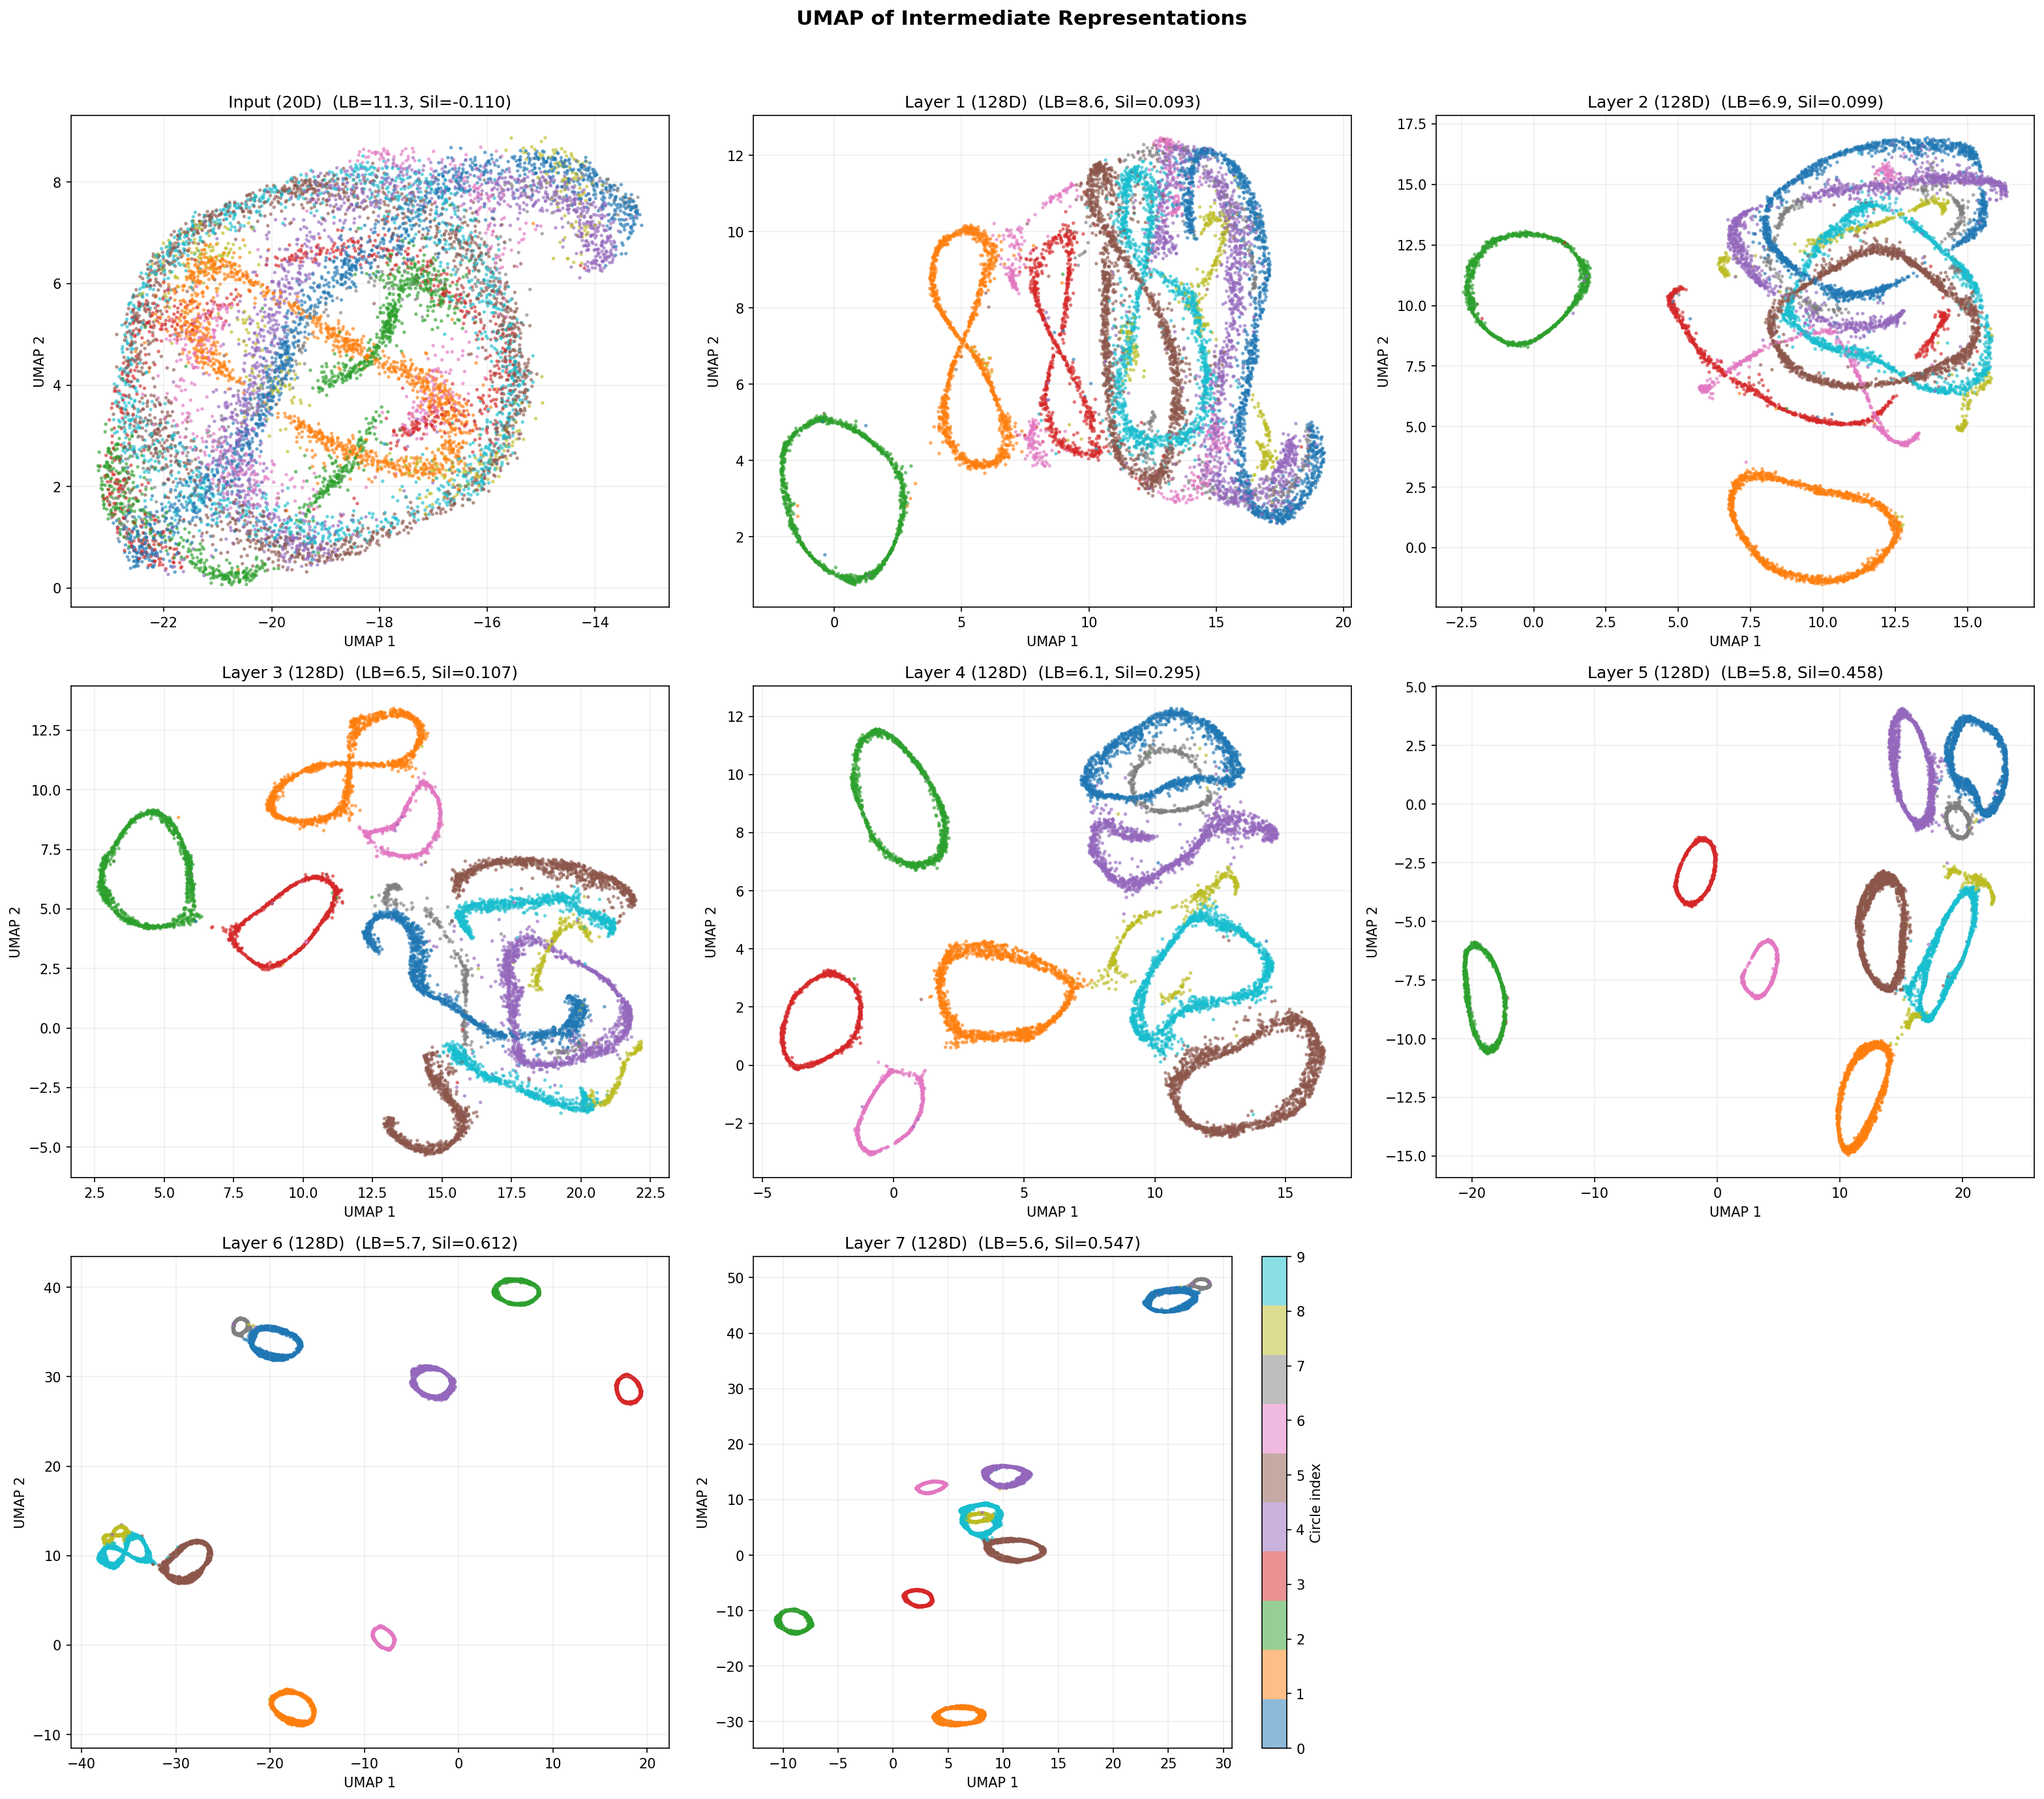
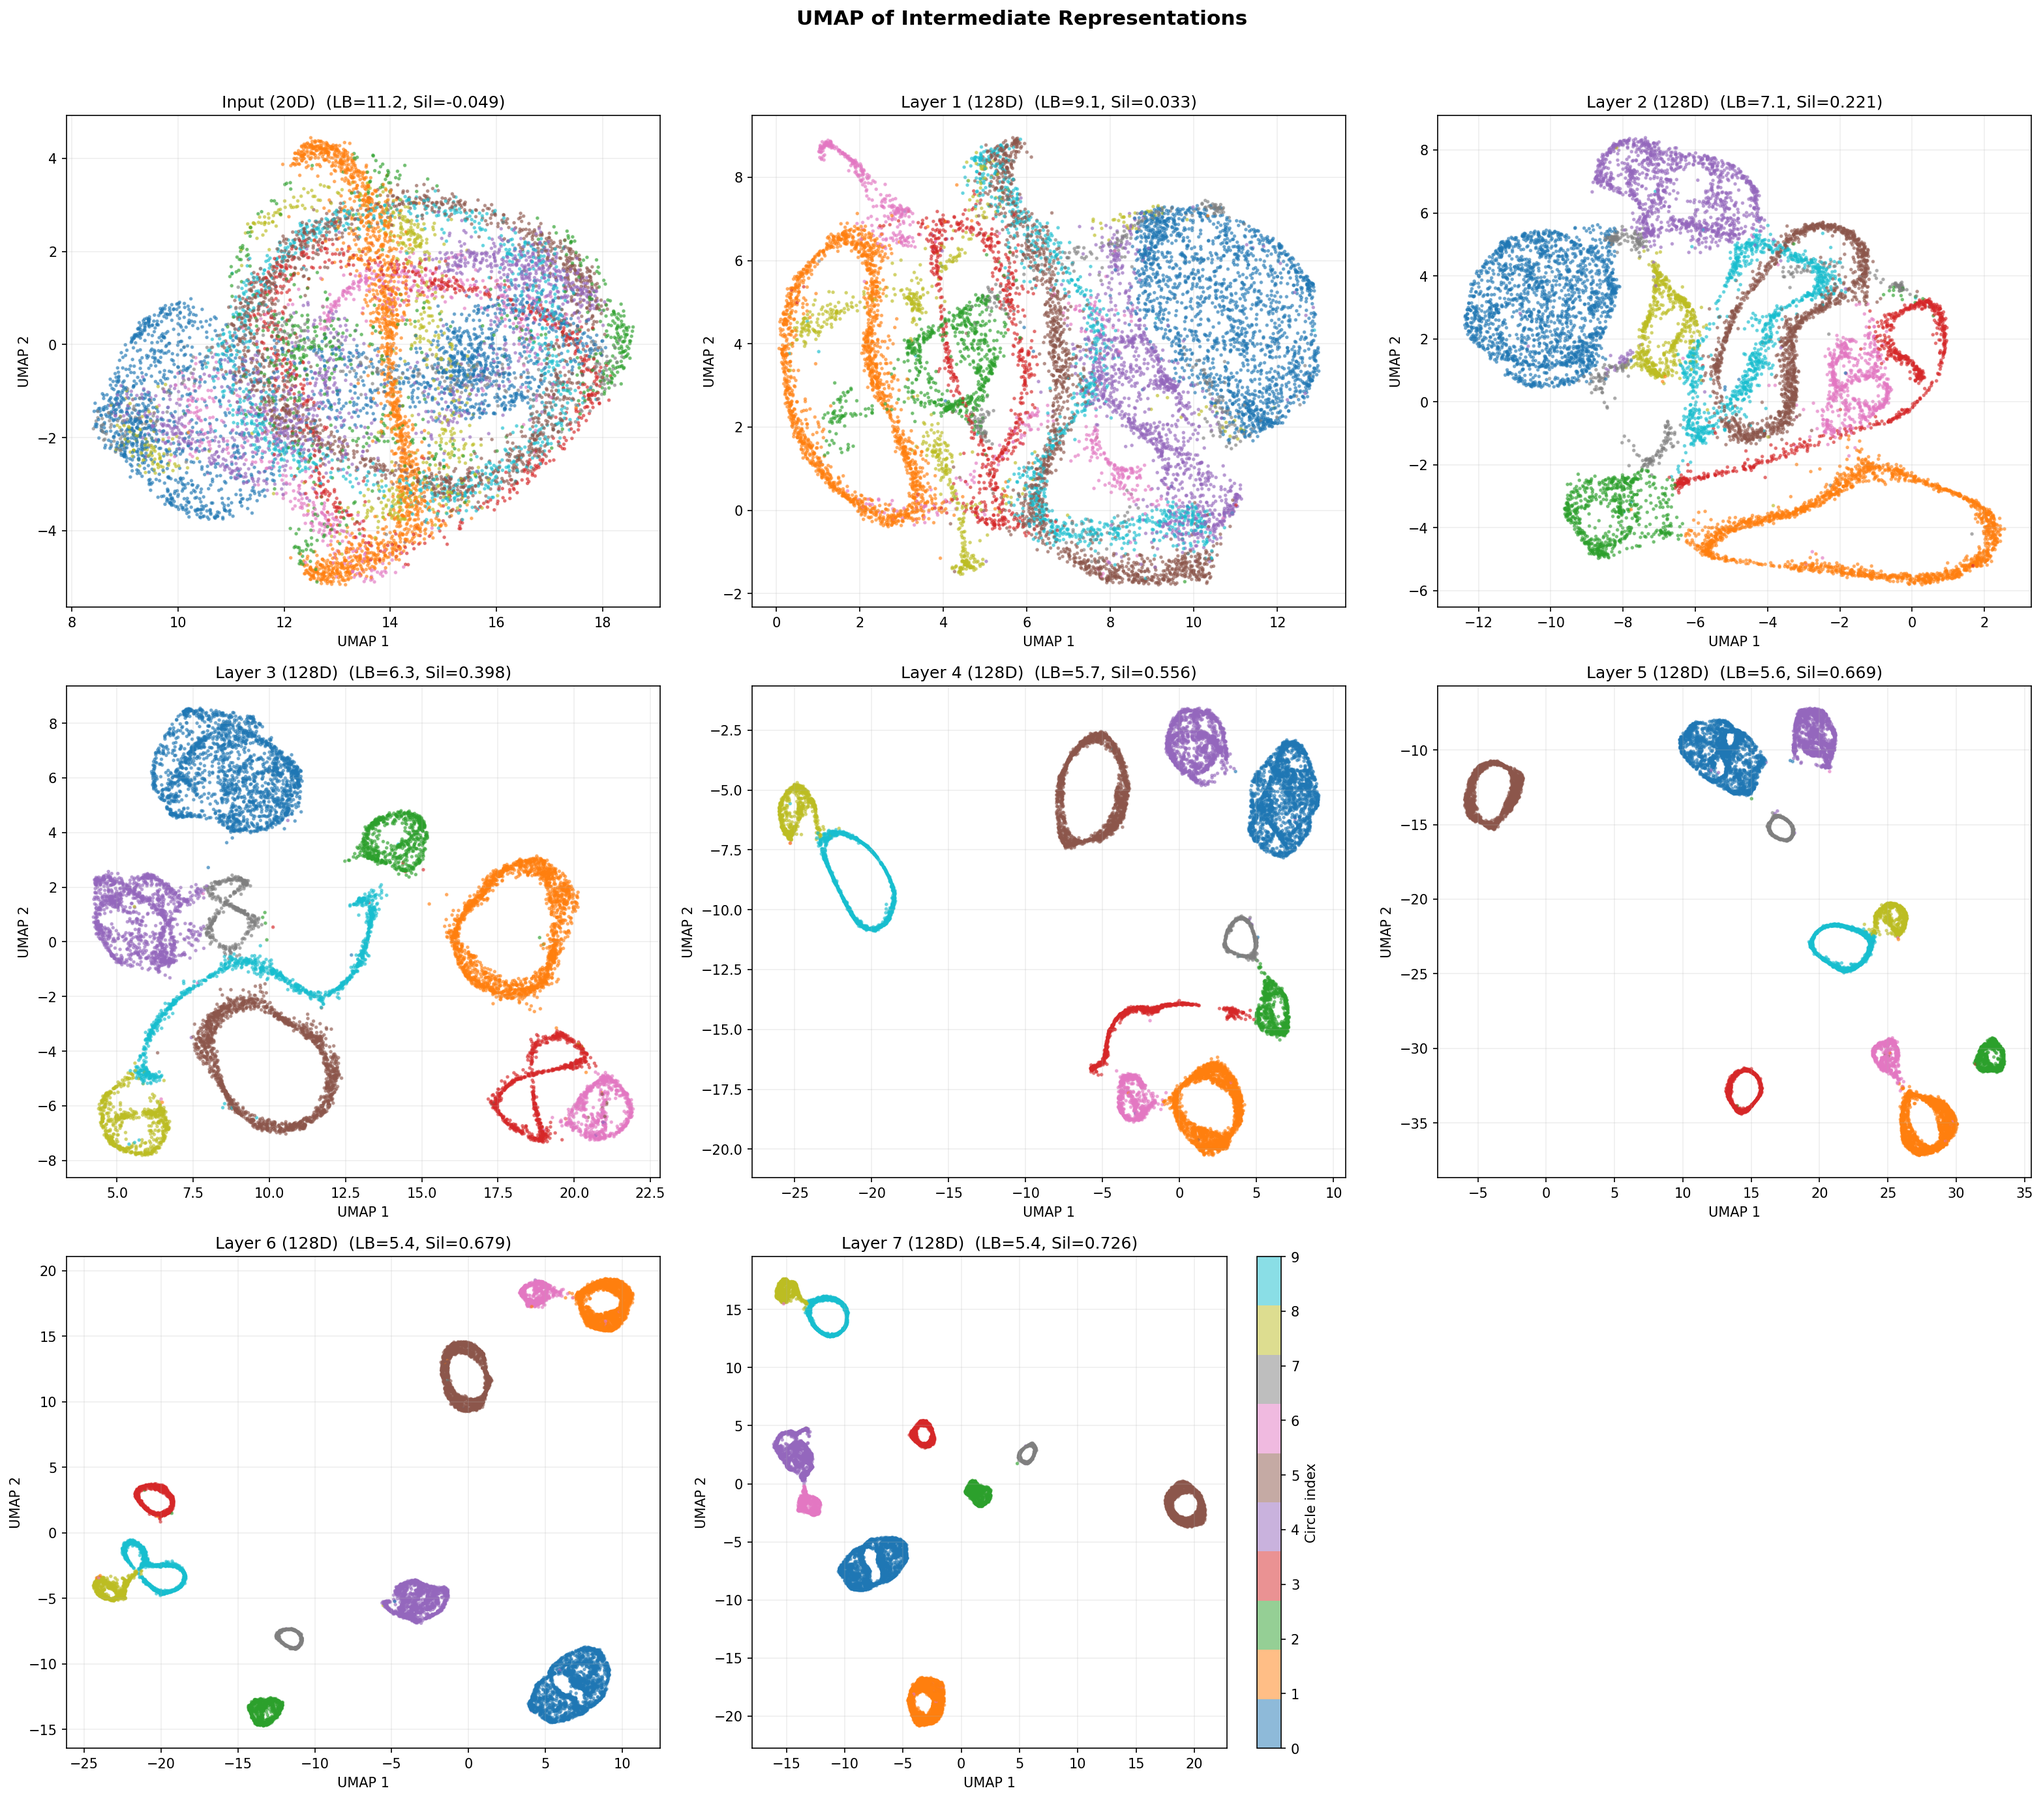
Add plane drift for even circles, update JEPA results to 3000 epochs
- Even circles gradually tilt their 2D plane during each syllable,
  resetting on transition (--drift flag, --drift-rate controls speed)
- Sample window plots now label drifting circles with 'D' suffix
- Updated JEPA UMAP to 3000-epoch model on drift dataset (Sil=0.73)
- README documents drift feature and updated training recipe

Made-with: Cursor

diff --git a/markov_circles_timeseries.py b/markov_circles_timeseries.py
@@ -207,6 +207,8 @@ def generate_time_series(
     min_period=40,
     max_period=200,
     subspace_dim=None,
+    drift=False,
+    drift_rate=0.5,
     seed=42,
 ):
     """
@@ -249,6 +251,13 @@ def generate_time_series(
         Dimension of the subspace from which circle planes are drawn.
         Controls geometric overlap (see ``create_circles`` docstring).
         None or ambient_dim = no overlap; 2 = maximum overlap.
+    drift : bool
+        If True, even-numbered circles (0, 2, 4, ...) gradually tilt
+        their 2D plane during each visit (syllable), resetting to
+        the original orientation on each new visit.
+    drift_rate : float
+        Maximum tilt angle in radians over one syllable.
+        Default 0.5 rad ≈ 29°.
     seed : int
         Random seed for reproducibility.
 
@@ -279,6 +288,31 @@ def generate_time_series(
     # Fixed entry angle for each circle
     entry_angles = rng.uniform(0, 2 * np.pi, n_circles)
 
+    # Drift setup: for even circles, compute a tilt axis orthogonal to the plane
+    drift_axes = {}
+    if drift:
+        for i in range(0, n_circles, 2):
+            v1, v2 = planes[i]
+            d = rng.standard_normal(ambient_dim)
+            d -= d.dot(v1) * v1
+            d -= d.dot(v2) * v2
+            d /= np.linalg.norm(d)
+            drift_axes[i] = d
+
+    def _get_plane(circle_idx, step_in_syllable, syllable_len):
+        """Return the (possibly drifted) plane for a circle at a given step
+        within the current syllable. Drift resets at each new visit."""
+        v1, v2 = planes[circle_idx]
+        if not drift or circle_idx not in drift_axes:
+            return v1, v2
+        alpha = drift_rate * (step_in_syllable / max(1, syllable_len))
+        d = drift_axes[circle_idx]
+        v1_new = np.cos(alpha) * v1 + np.sin(alpha) * d
+        v1_new /= np.linalg.norm(v1_new)
+        v2_new = v2 - v2.dot(v1_new) * v1_new
+        v2_new /= np.linalg.norm(v2_new)
+        return v1_new, v2_new
+
     # Allocate output arrays
     X = np.zeros((n_steps, ambient_dim))
     states = np.zeros(n_steps, dtype=int)
@@ -303,10 +337,11 @@ def generate_time_series(
             states[t] = current_circle
             thetas[t] = angle % (2 * np.pi)
 
+            plane = _get_plane(current_circle, s, dwell)
             pos = point_on_circle(
                 thetas[t],
                 radii[current_circle],
-                planes[current_circle],
+                plane,
                 centers[current_circle],
             )
             X[t] = pos + rng.normal(0, noise_std, ambient_dim)
@@ -387,6 +422,8 @@ DEFAULT_CONFIG = dict(
     min_period=40,
     max_period=200,
     subspace_dim=None,
+    drift=False,
+    drift_rate=0.5,
     seed=42,
 )
 
@@ -561,6 +598,20 @@ def main(run_umap=True):
         ax_top.set_xlim(t0, t1)
         ax_top.set_yticks([])
         ax_top.set_ylabel('State', fontsize=10)
+
+        # Label each syllable segment with circle index and drift marker
+        seg_start = t0
+        for t in range(t0 + 1, t1 + 1):
+            if t == t1 or states[t] != states[t - 1]:
+                seg_mid = (seg_start + t) / 2
+                ci = states[seg_start]
+                is_drift = config.get('drift', False) and ci % 2 == 0
+                label = f'{ci}D' if is_drift else str(ci)
+                ax_top.text(seg_mid, 0.5, label, ha='center', va='center',
+                            fontsize=7, fontweight='bold', color='white',
+                            transform=ax_top.get_xaxis_transform())
+                seg_start = t
+
         ax_top.set_title(f'Sample window  t = {t0} … {t1}  '
                          f'({window} steps)', fontsize=12)
         plt.setp(ax_top.get_xticklabels(), visible=False)
@@ -639,9 +690,18 @@ if __name__ == '__main__':
     parser.add_argument('--n-steps', type=int, default=None,
                         help='Total time steps to generate '
                              '(default: 100000)')
+    parser.add_argument('--drift', action='store_true',
+                        help='Enable gradual plane tilt for even-numbered '
+                             'circles (non-stationary geometry)')
+    parser.add_argument('--drift-rate', type=float, default=0.5,
+                        help='Max tilt angle in radians over the full '
+                             'time series (default: 0.5 ≈ 29°)')
     args = parser.parse_args()
     if args.subspace_dim is not None:
         DEFAULT_CONFIG['subspace_dim'] = args.subspace_dim
     if args.n_steps is not None:
         DEFAULT_CONFIG['n_steps'] = args.n_steps
+    if args.drift:
+        DEFAULT_CONFIG['drift'] = True
+        DEFAULT_CONFIG['drift_rate'] = args.drift_rate
     main(run_umap=not args.no_umap)

diff --git a/README.md b/README.md
@@ -30,17 +30,19 @@ The target encoder is updated via EMA after each optimiser step, with a cosine m
 | mask_ratio | 0.25 |
 | mask_patch_size | 16–256 |
 
+## Dataset
+
+The synthetic dataset consists of 10 circles embedded in 20D ambient space with a shared 4D subspace (`--subspace-dim 4`). Dynamics are governed by a sparse random Markov transition matrix (each circle transitions heavily to 2–3 others and lightly to 3–4 more).
+
+**Plane drift (`--drift`)**: Even-numbered circles (0, 2, 4, 6, 8) undergo gradual plane tilting during each visit — the 2D plane rotates toward a random orthogonal axis over the course of the syllable, then resets to its original orientation on the next visit. This introduces within-syllable non-stationarity that the model must learn to handle. The `--drift-rate` parameter controls the maximum tilt angle per syllable (default 0.5 rad; use 6.283 for one full rotation per visit).
+
 ## Results
 
-### JEPA representations (7 layers)
+### JEPA representations (7 layers, 3000 epochs, drift dataset)
 
 ![JEPA UMAP](representation_umap_jepa_model.png)
 
-### BERT baseline representations (7 layers, RoPE, matched masks)
-
-![BERT UMAP](representation_umap_bert_model.png)
-
-Both models use identical masking (patches 16–256, 25% ratio), 7 RoPE encoder layers, and the same dataset. JEPA produces significantly better cluster separation, peaking at **Sil=0.61** (layer 6) vs **Sil=0.12** (BERT layer 5).
+Trained on the drift dataset (`--drift --drift-rate 6.283`, one full plane rotation per syllable). JEPA achieves strong cluster separation across layers, peaking at **Sil=0.73** (layer 7) after 3000 epochs.
 
 ## GPU Optimisations
 
@@ -59,13 +61,17 @@ pip install numpy matplotlib torch scipy umap-learn
 ### Generate dataset
 
 ```bash
+# Static circles
 python markov_circles_timeseries.py --subspace-dim 4 --no-umap
+
+# With plane drift (even circles tilt one full rotation per syllable)
+python markov_circles_timeseries.py --subspace-dim 4 --drift --drift-rate 6.283 --no-umap
 ```
 
 ### Train
 
 ```bash
-python jepa_model_gpu.py --n-layers 7 --mask-patch-max 256 --mask-ratio 0.25 --epochs 500
+python jepa_model_gpu.py --n-layers 7 --mask-patch-max 256 --mask-ratio 0.25 --epochs 3000
 ```
 
 ### Evaluate representations (UMAP + Levina-Bickel)
